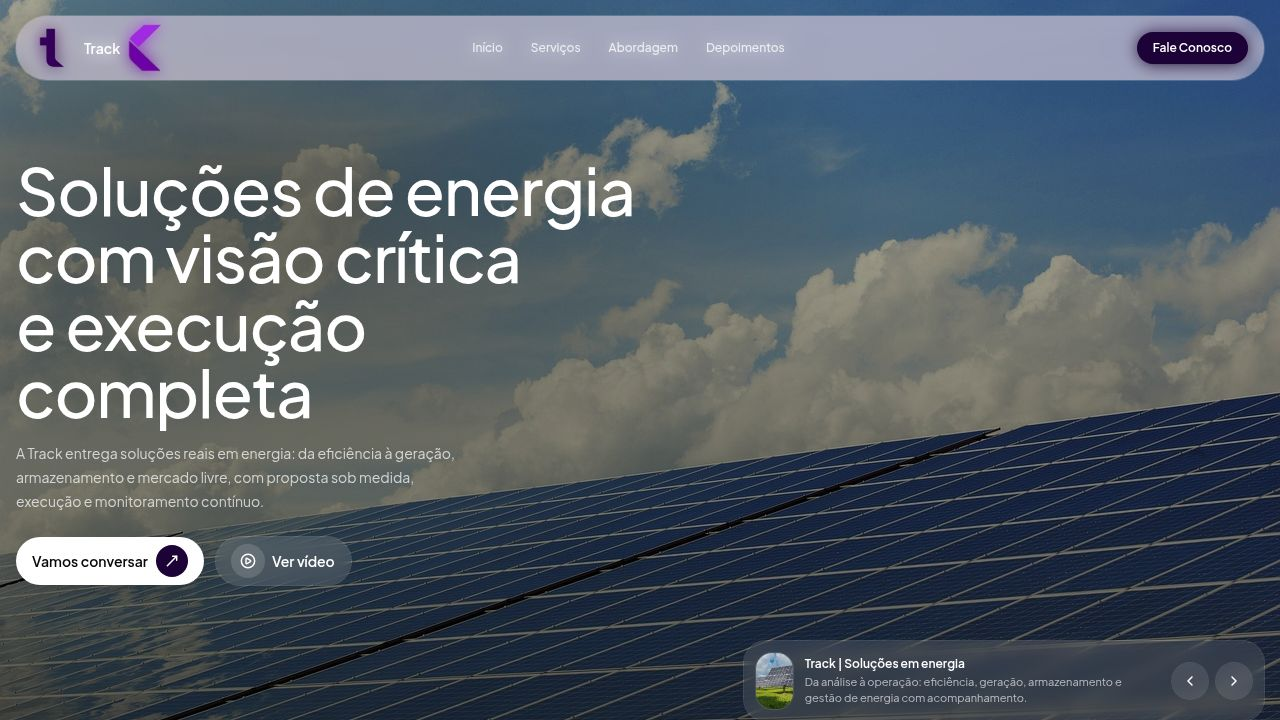
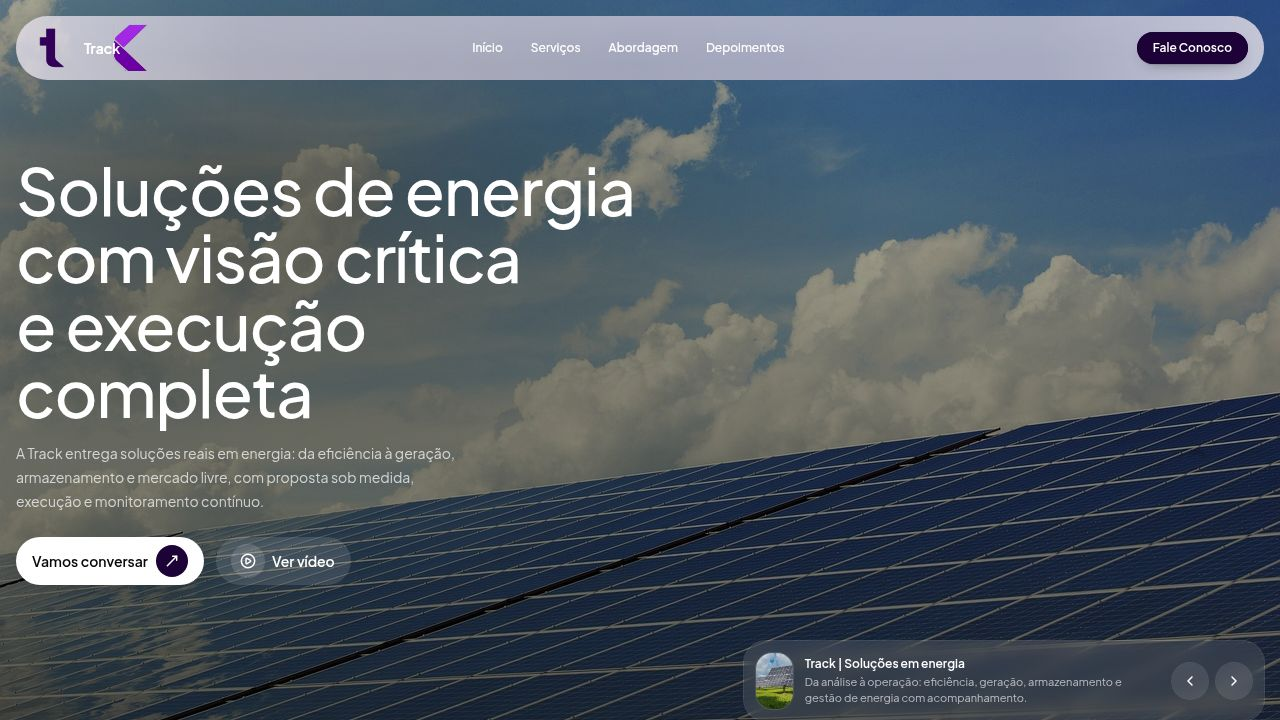
Add subtle gradient to the home page hero section corners
Apply a linear gradient to the home page hero section background, making the left and right corners slightly lighter to enhance visual appeal.

Replit-Commit-Author: Agent
Replit-Commit-Session-Id: b4635d27-a8c0-4301-ae2a-af9064642ca9
Replit-Commit-Checkpoint-Type: full_checkpoint
Replit-Commit-Event-Id: f5920925-b6a4-493e-91a7-0cb7e6d8976a
Replit-Commit-Screenshot-Url: https://storage.googleapis.com/screenshot-production-us-central1/eede4cac-3f58-423c-a1e9-f071d8b2dafc/b4635d27-a8c0-4301-ae2a-af9064642ca9/jctwQpW
Replit-Helium-Checkpoint-Created: true

Changed region(s): [[0.0, 0.0, 0.125, 0.1222], [0.875, 0.0, 1.0, 0.1222], [0.2188, 0.7333, 0.25, 0.7639]]

diff --git a/client/src/pages/landing.tsx b/client/src/pages/landing.tsx
@@ -475,6 +475,14 @@ function Hero({ onPlay, onContact }: { onPlay: () => void; onContact: () => void
     <section id="top" className="relative min-h-screen w-full overflow-hidden bg-black">
       <img data-testid="img-hero" src={heroImg} alt="Energia e infraestrutura" className="h-screen w-full object-cover" />
       <div className="absolute inset-0 hero-overlay noise" />
+      <div
+        data-testid="bg-hero-corners-gradient"
+        className="pointer-events-none absolute inset-0"
+        style={{
+          background:
+            "linear-gradient(90deg, rgba(255,255,255,0.18) 0%, rgba(255,255,255,0.06) 16%, rgba(255,255,255,0) 45%, rgba(255,255,255,0) 55%, rgba(255,255,255,0.06) 84%, rgba(255,255,255,0.18) 100%)",
+        }}
+      />
 
       <div className="absolute inset-0">
         <Nav onContact={onContact} />
